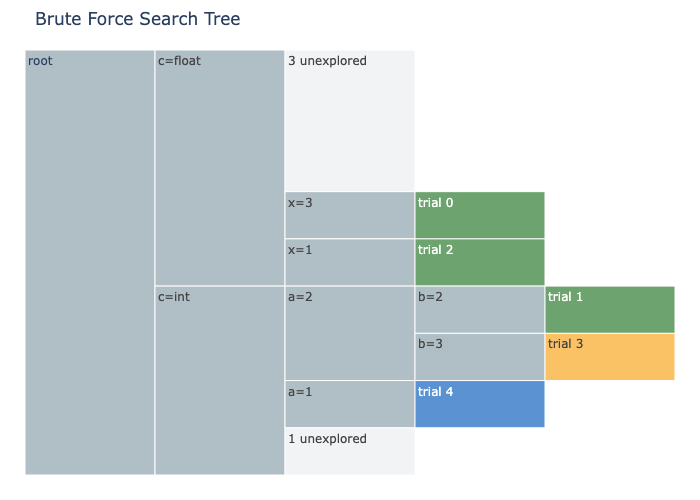
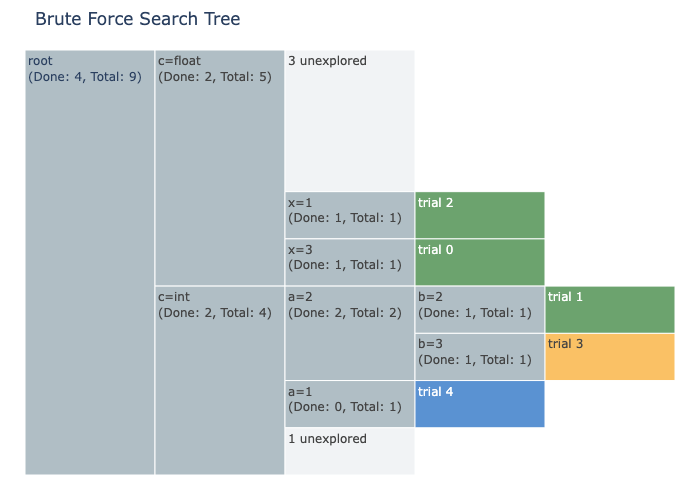
Update png

diff --git a/package/visualization/plot_brute_force_tree/example.py b/package/visualization/plot_brute_force_tree/example.py
@@ -4,8 +4,7 @@ import optuna
 import optunahub
 
 
-# module = optunahub.load_module("visualization/plot_brute_force_tree")
-module = optunahub.load_local_module("visualization/plot_brute_force_tree", registry_root="package")
+module = optunahub.load_module("visualization/plot_brute_force_tree")
 
 
 def objective(trial: optuna.Trial) -> float: